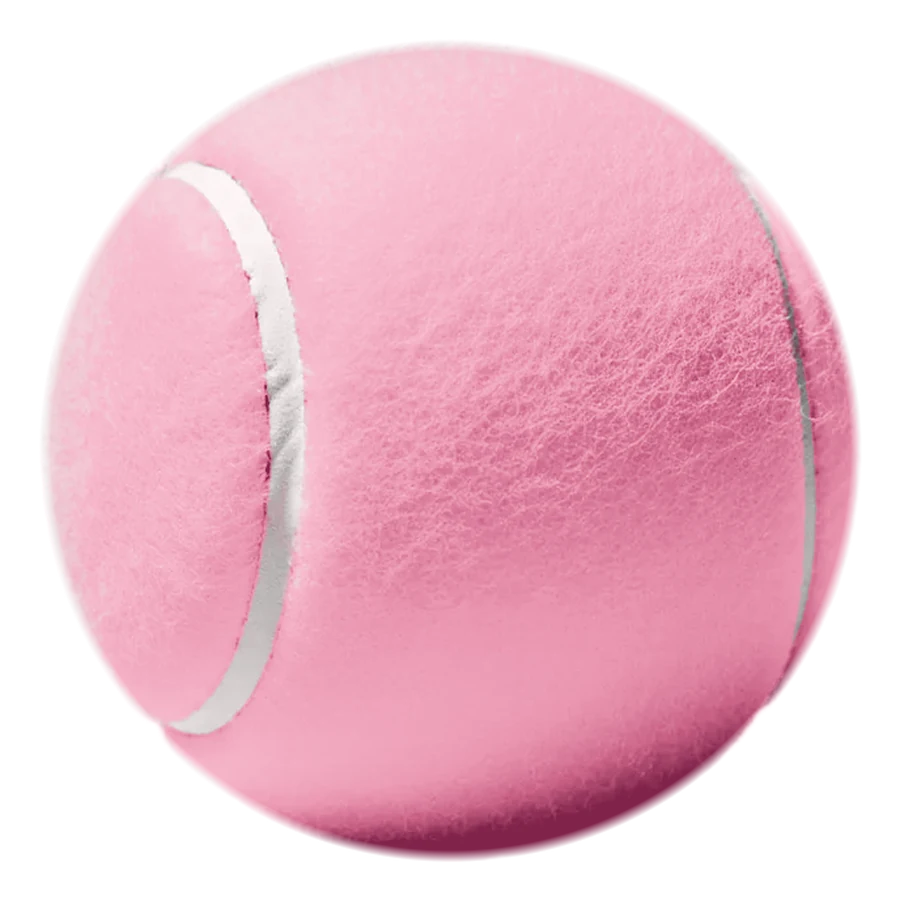
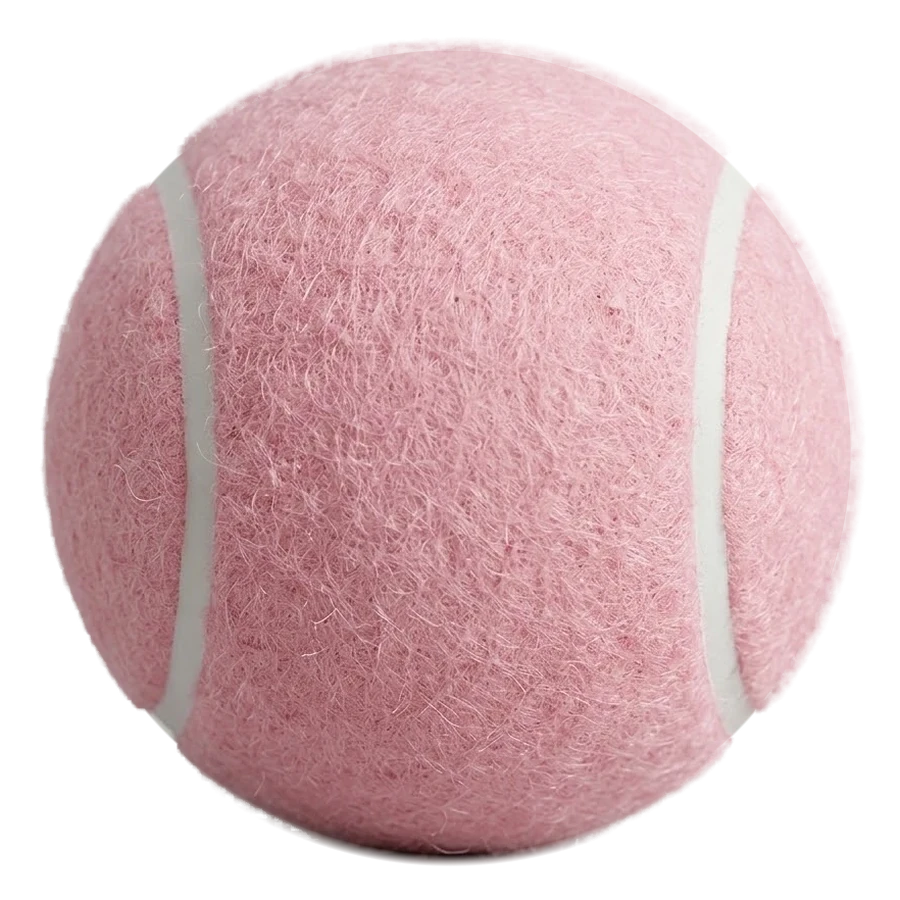
Use the clean ball made from the real product photo
The designer, hero, occasions, sets and gift can now start from a
blank ball that Gemini (Nano Banana) made from a photo of the real
printed balls, instead of a recoloured AI ball. make_ball_photo.py now
just cuts it out of its grey backdrop; the print is centred between
its seams (LAM0 0), matched to its felt brightness, and a little wider.

diff --git a/site/ball.js b/site/ball.js
@@ -15,8 +15,8 @@
   var THETA = 0.92;        // the texture covers ±THETA radians of the ball
   // The photo: ball radius as a share of the image width (brand/make_ball_photo.py prints it),
   // and the turn that centres the print on the felt panel between the two seams.
-  var PHOTO = "assets/ball.webp", PHOTO_R = 0.4464, LAM0 = 0.24;
-  var FELT_LUM = 186;      // brightness of the lit felt, where ink shows at its true colour
+  var PHOTO = "assets/ball.webp", PHOTO_R = 0.4464, LAM0 = 0;
+  var FELT_LUM = 189;      // brightness of the lit felt, where ink shows at its true colour
 
   var cache = {};          // per-size photo pixels and sphere mapping
   var texCanvas = {};
@@ -112,7 +112,7 @@
     var logo = design.logo && design.logoLayout !== "none" ? design.logo : null;
     var only = logo && design.logoLayout === "only";
     var lines = only ? [] : (design.lines || []).filter(Boolean).map(function (s) { return f.upper ? s.toUpperCase() : s; });
-    var maxW = TEX * 0.54;   // keeps the print on the felt panel, clear of the seams
+    var maxW = TEX * 0.6;    // keeps the print on the felt panel, clear of the seams
     var px = 120 * f.scale * (logo ? 0.82 : 1);
     lines.forEach(function (s) { px = Math.min(px, px * maxW / Math.max(1, widthOf(ictx, s, f, px))); });
     var lineH = px * f.line;

diff --git a/brand/make_ball_photo.py b/brand/make_ball_photo.py
@@ -1,60 +1,58 @@
-"""Recolour the cut-out yellow ball photo to the can's pink, for site/assets/ball.webp.
+"""Cut the pink ball out of its plain grey backdrop, for site/assets/ball.webp.
 
-The image model draws yellow tennis balls far more faithfully than pink ones, so we
-generate yellow and recolour here: felt takes a pink ramp by brightness, the seam stays white.
-Sources and how they were made: brand/ball/README.txt.
+The source is a blank pink ball on light grey (brand/ball/README.txt says how it was made).
+Felt is clearly pink and the backdrop and its shadow are near-grey, so saturation separates them;
+the white seams are taken back in by filling the ball's outline.
 Needs Pillow and NumPy. Run from the repo root: python brand/make_ball_photo.py
 """
 import numpy as np
-from PIL import Image
+from PIL import Image, ImageDraw, ImageFilter
 
-SRC = "brand/ball/ball-cutout-yellow.webp"
+SRC = "brand/ball/ball-source-gemini.webp"
 OUT = "site/assets/ball.webp"
 SIZE = 900
 
-src = Image.open(SRC).convert("RGBA")
-rgba = np.asarray(src).astype(np.float32) / 255
-rgb, alpha = rgba[..., :3], rgba[..., 3]
-sat = np.asarray(src.convert("RGB").convert("HSV"))[..., 1].astype(np.float32) / 255
+src = Image.open(SRC).convert("RGB")
+rgb = np.asarray(src).astype(np.float32) / 255
+sat = np.asarray(src.convert("HSV"))[..., 1].astype(np.float32) / 255
 lum = rgb @ np.array([0.299, 0.587, 0.114], np.float32)
+H, W = lum.shape
 
-# Brightness across the felt, so the ramp spans the ball's own shadows and highlights.
-body = (alpha > 0.9) & (sat > 0.3)
-lo, hi = np.percentile(lum[body], [2, 99.5])
-t = np.clip((lum - lo) / (hi - lo), 0, 1)
+# Felt: pink enough to stand clear of the grey (about 0.03 saturation) and its shadow.
+felt = np.clip((sat - 0.08) / 0.1, 0, 1)
 
-# Deep rose in shadow, the can's ball pink across the lit face, a soft blush highlight.
-stops = np.array([0.0, 0.3, 0.6, 0.82, 1.0], np.float32)
-cols = np.array([[128, 36, 74], [200, 96, 132], [234, 150, 176], [244, 176, 197], [250, 198, 213]], np.float32) / 255
-pink = np.stack([np.interp(t, stops, cols[:, c]) for c in range(3)], 2)
-# The white rubber seam keeps its own light, warmed a touch.
-seam = np.stack([lum, lum * 0.97, lum * 0.97], 2) * 1.04
-# Loose fibres past the outline are felt too, even where the grey backdrop washed out their colour.
-felt = np.maximum(np.clip((sat - 0.14) / 0.2, 0, 1), np.clip((0.9 - alpha) / 0.3, 0, 1))[..., None]
-out = np.clip(pink * felt + seam * (1 - felt), 0, 1)
+# Rough outline of the ball, for finding its disc: the felt, closed over small gaps.
+m = Image.fromarray(((felt > 0.6) * 255).astype(np.uint8)).filter(ImageFilter.MaxFilter(15)).filter(ImageFilter.MinFilter(15))
+ImageDraw.floodfill(m, (0, 0), 128)
+inside = np.asarray(m) != 128
 
-# The ball's disc, from its left, right and top edges (the bottom is flattened where it met the floor).
-solid = alpha > 0.95
-ys, xs = np.nonzero(solid)
+# The disc, from the solid ball's left, right and top edges (the shadow sits below it).
+ys, xs = np.nonzero(inside)
 x0, x1 = np.percentile(xs, [0.1, 99.9])
 r = (x1 - x0) / 2
 cx, cy = (x0 + x1) / 2, np.percentile(ys, 0.1) + r
-
-# Trim the loose fibres to a short, tidy halo just past the outline.
-yy, xx = np.mgrid[0:alpha.shape[0], 0:alpha.shape[1]]
+yy, xx = np.mgrid[0:H, 0:W]
 d = np.hypot(xx - cx, yy - cy) / r
-alpha = alpha * np.clip((1.025 - d) / 0.03, 0, 1)
 
-# Square crop centred on the disc; record its radius for ball.js.
+# Alpha: the disc itself is solid (the seams run out to the edge, so the fill above can't hold
+# them), the fuzz past it counts by how pink it is, trimmed to a short halo.
+disc = np.clip((1.0 - d) / 0.006, 0, 1)
+alpha = np.maximum(disc, felt * (d < 1.04)) * np.clip((1.035 - d) / 0.03, 0, 1)
+
+# Square crop centred on the disc; ball.js needs the radius as a share of the width.
 half = r * 1.12
 box = tuple(int(round(v)) for v in (cx - half, cy - half, cx + half, cy + half))
-img = Image.fromarray((np.dstack([out, alpha]) * 255).astype(np.uint8), "RGBA").crop(box).resize((SIZE, SIZE), Image.LANCZOS)
-img.save(OUT, "WEBP", quality=88, alpha_quality=90, method=6)
+img = Image.fromarray((np.dstack([rgb, alpha]) * 255).astype(np.uint8), "RGBA").crop(box).resize((SIZE, SIZE), Image.LANCZOS)
+img.save(OUT, "WEBP", quality=90, alpha_quality=90, method=6)
 print(f"{OUT}: {SIZE}px; ball radius {r / (2 * half):.4f} of width, centred")
 
+# Brightness of the lit felt (ball.js FELT_LUM): ink is shown at its true colour there.
+face = (d < 0.5) & (felt > 0.9)
+print(f"lit felt brightness {np.percentile(lum[face] * 255, 75):.0f}")
+
 # Where the seams cross the middle row, for centring the print between them.
-band = (felt[int(cy) - 30:int(cy) + 30, :, 0] < 0.3) & solid[int(cy) - 30:int(cy) + 30]
-cols_in = np.nonzero(band.mean(0) > 0.5)[0]
-left, right = cols_in[cols_in < cx], cols_in[cols_in > cx]
+band = (felt[int(cy) - 30:int(cy) + 30] < 0.3) & (d[int(cy) - 30:int(cy) + 30] < 0.98)
+cols = np.nonzero(band.mean(0) > 0.5)[0]
+left, right = cols[cols < cx], cols[cols > cx]
 if len(left) and len(right):
     print(f"seams at {(left.mean() - cx) / r:+.3f}R and {(right.mean() - cx) / r:+.3f}R")
